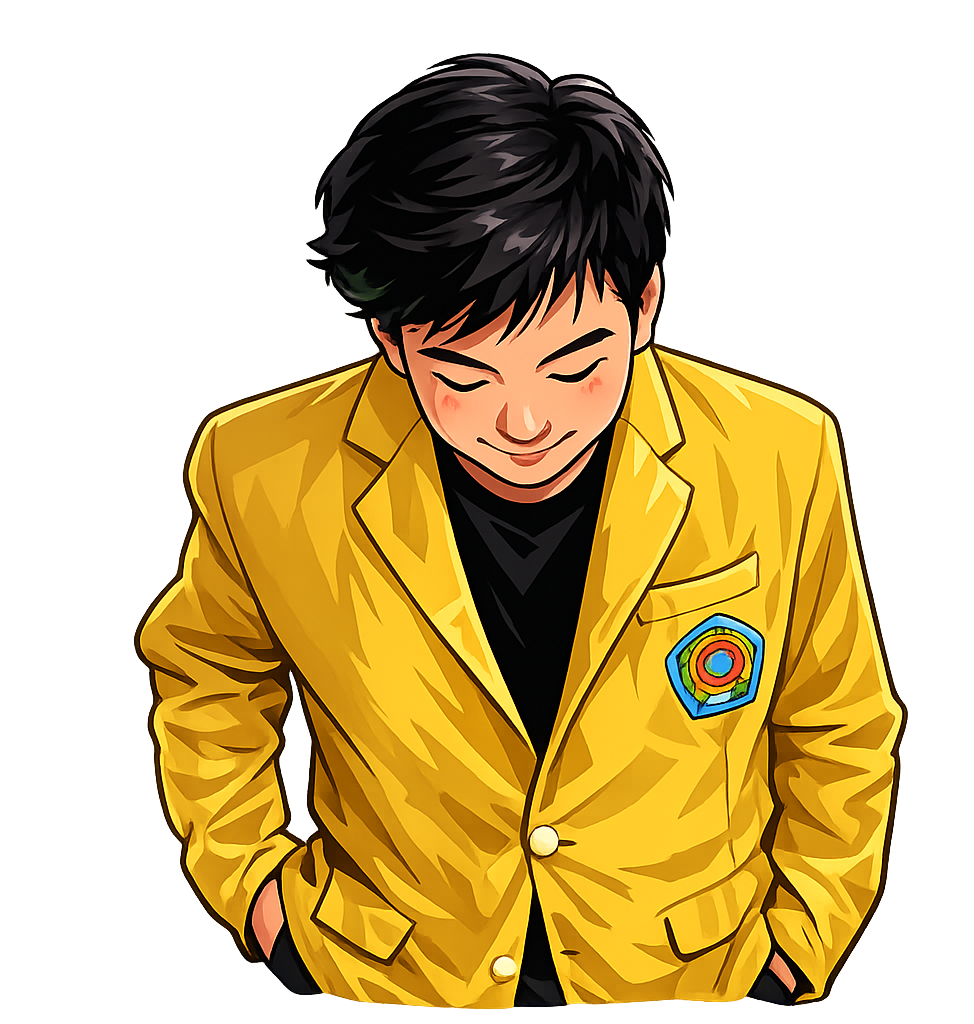
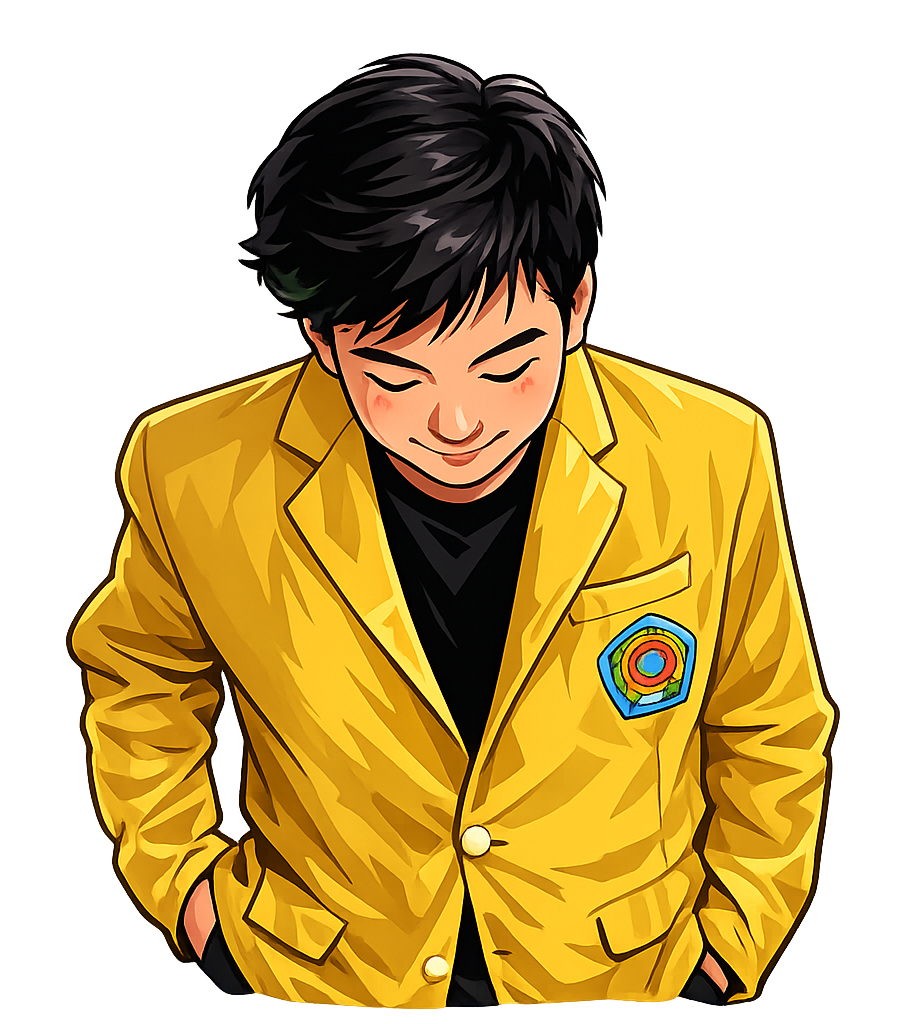
updyae

diff --git a/src/components/Projects.tsx b/src/components/Projects.tsx
@@ -95,7 +95,7 @@ const Projects = () => {
             <a
               key={i}
               href={p.link}
-              className="group flex-shrink-0 w-[90%] md:w-[48%] snap-start overflow-hidden relative"
+              className="group flex-shrink-0 w-[90%] md:w-[48%] snap-start overflow-hidden relative rounded-3xl"
             >
               {/* IMAGE */}
               <img
@@ -150,7 +150,7 @@ const Projects = () => {
           {projects.map((_, i) => (
             <span
               key={i}
-              className={`w-2 h-2 rounded-full ${
+              className={`w-4 h-2 rounded-full ${
                 i === activeIndex ? "bg-primary" : "bg-muted"
               }`}
             />

diff --git a/src/components/Hero.tsx b/src/components/Hero.tsx
@@ -138,7 +138,7 @@ const Hero = () => {
         </div>
 
         {/* Center photo */}
-        <div className="flex justify-center order-1 md:order-2 relative -mt-16 md:mt-0">
+        <div className="flex justify-center order-1 md:order-2 relative -mt-16 md:mt-0 top-8">
           <div className="absolute top-1/2 left-1/2 w-[220px] md:w-[320px] h-[220px] md:h-[320px] -translate-x-1/2 -translate-y-1/2 bg-primary/30 blur-[80px] rounded-full" />
 
           <img

diff --git a/src/components/Navbar.tsx b/src/components/Navbar.tsx
@@ -50,7 +50,7 @@ const Navbar = () => {
   return (
     <>
       {/* Desktop navbar */}
-      <nav className="hidden md:block fixed right-[3%] -translate-x-1/2 top-9 z-50">
+      <nav className="hidden md:block fixed right-[30%] -translate-x-1/2 top-9 z-50">
         <div className=" px-8 py-3 ">
           <div className="flex gap-10">
             {navItems.map((item) => (
